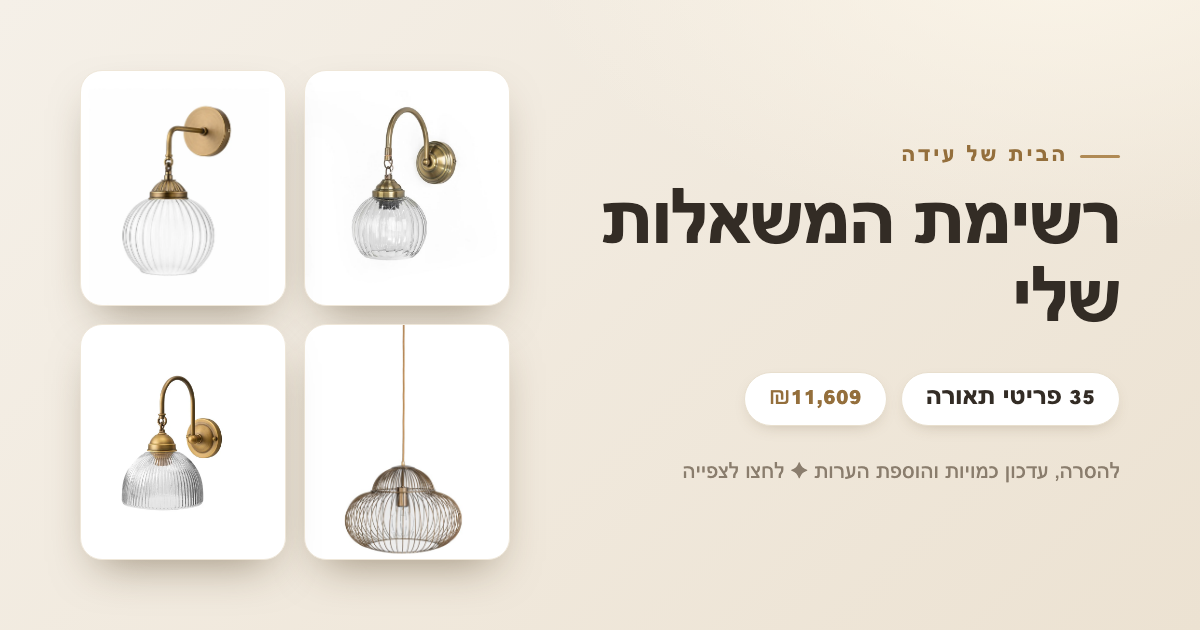
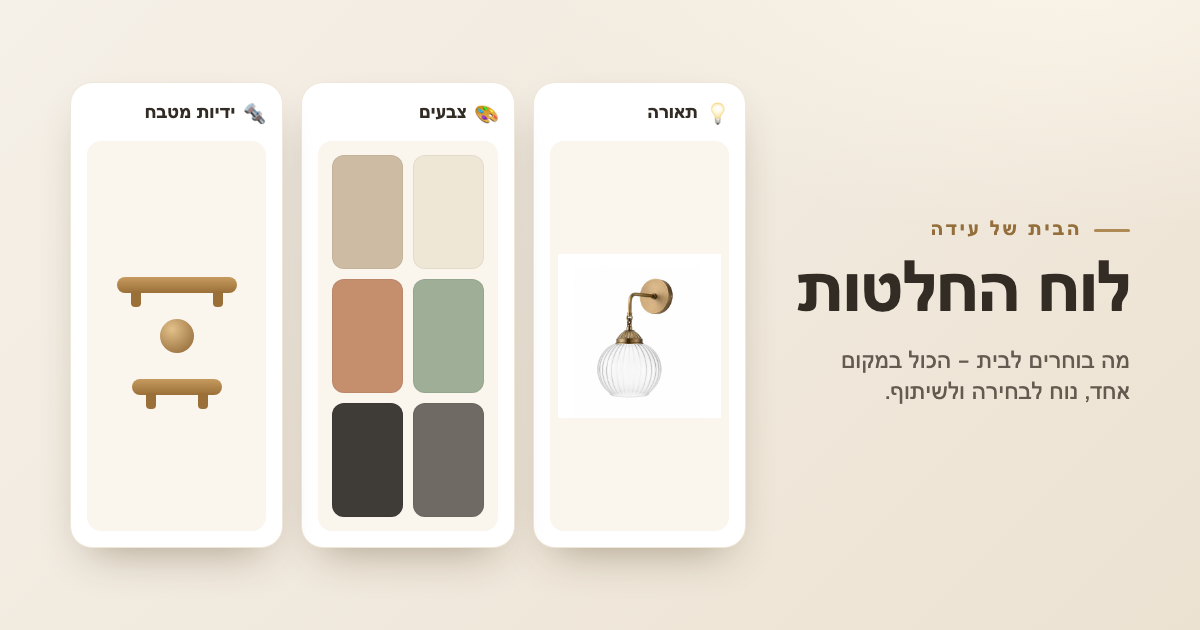
Redesign OG snapshot to show all three sections (lighting/colors/handles)

Changed region(s): [[0.0617, 0.0905, 0.9558, 0.9048], [0.74, 0.2111, 0.925, 0.2714]]

diff --git a/og.html b/og.html
@@ -4,30 +4,40 @@
 html,body{width:1200px;height:630px;overflow:hidden}
 body{font-family:"Heebo","Arial Hebrew","Arial",sans-serif;
   background:radial-gradient(900px 500px at 88% -10%,#fbf5e9,rgba(0,0,0,0) 60%),linear-gradient(135deg,#f5f0e8,#ece2d2);
-  display:flex;align-items:center;gap:50px;padding:70px 80px}
-.txt{flex:1;min-width:0}
-.kick{font-size:22px;font-weight:700;letter-spacing:.14em;color:#946f3c;text-transform:uppercase;
-  display:flex;align-items:center;gap:12px}
-.kick::before{content:"";width:40px;height:3px;border-radius:3px;background:#b08a54}
-h1{font-size:76px;font-weight:800;color:#332c25;line-height:1.02;letter-spacing:-.02em;margin:22px 0 26px}
-.meta{display:inline-flex;gap:14px;align-items:center}
-.chip{background:#fff;border:1.5px solid #e8dfce;border-radius:999px;padding:12px 24px;font-size:26px;font-weight:700;color:#332c25;
-  box-shadow:0 6px 18px -10px rgba(95,72,40,.4)}
-.chip .m{color:#946f3c}
-.foot{margin-top:34px;font-size:22px;color:#8a7d6d;font-weight:500}
-.gal{width:430px;height:490px;display:grid;grid-template-columns:1fr 1fr;grid-template-rows:1fr 1fr;gap:18px;flex-shrink:0}
-.gal div{border-radius:22px;background:#fff center/cover no-repeat;box-shadow:0 20px 45px -18px rgba(70,50,20,.5);border:1px solid #efe7d9}
+  display:flex;align-items:center;gap:44px;padding:56px 70px}
+.txt{width:340px;flex-shrink:0}
+.kick{font-size:20px;font-weight:700;letter-spacing:.14em;color:#946f3c;text-transform:uppercase;display:flex;align-items:center;gap:12px}
+.kick::before{content:"";width:36px;height:3px;border-radius:3px;background:#b08a54}
+h1{font-size:70px;font-weight:800;color:#332c25;line-height:1.0;letter-spacing:-.02em;margin:20px 0 16px}
+.lead{font-size:24px;color:#645a4f;font-weight:500;line-height:1.3}
+.cats{flex:1;display:grid;grid-template-columns:1fr 1fr 1fr;gap:18px;height:466px}
+.tile{background:#fff;border:1px solid #efe7d9;border-radius:22px;box-shadow:0 20px 45px -20px rgba(70,50,20,.45);
+  padding:16px;display:flex;flex-direction:column}
+.tile .h{display:flex;align-items:center;gap:8px;font-size:19px;font-weight:700;color:#332c25;margin-bottom:12px}
+.tile .h .e{font-size:22px}
+.vis{flex:1;border-radius:14px;overflow:hidden;background:#faf6ee;display:flex;align-items:center;justify-content:center;position:relative}
+.vis img{width:100%;height:100%;object-fit:contain;padding:8px}
+/* swatches */
+.sw{display:grid;grid-template-columns:1fr 1fr;gap:10px;width:100%;height:100%;padding:14px}
+.sw span{border-radius:12px;box-shadow:inset 0 0 0 1px rgba(0,0,0,.05)}
+/* handles */
+.handles{display:flex;flex-direction:column;gap:26px;align-items:center;justify-content:center;width:100%}
+.bar{width:120px;height:16px;border-radius:10px;background:linear-gradient(180deg,#c69a5f,#9a7038);position:relative}
+.bar::before,.bar::after{content:"";position:absolute;top:14px;width:10px;height:16px;border-radius:0 0 4px 4px;background:#9a7038}
+.bar::before{left:14px}.bar::after{right:14px}
+.knob{width:34px;height:34px;border-radius:50%;background:radial-gradient(circle at 35% 30%,#e3c08a,#8a6230)}
 </style></head><body>
 <div class="txt">
   <div class="kick">הבית של עידה</div>
-  <h1>רשימת המשאלות שלי</h1>
-  <div class="meta"><span class="chip">35 פריטי תאורה</span><span class="chip"><span class="m">₪11,609</span></span></div>
-  <div class="foot">להסרה, עדכון כמויות והוספת הערות ✦ לחצו לצפייה</div>
+  <h1>לוח החלטות</h1>
+  <div class="lead">מה בוחרים לבית — הכול במקום אחד, נוח לבחירה ולשיתוף.</div>
 </div>
-<div class="gal">
-  <div style="background-image:url('img/product-2419.jpg')"></div>
-  <div style="background-image:url('img/k2.webp')"></div>
-  <div style="background-image:url('img/product-321.jpg')"></div>
-  <div style="background-image:url('img/tomazo-1.webp')"></div>
+<div class="cats">
+  <div class="tile"><div class="h"><span class="e">💡</span>תאורה</div>
+    <div class="vis"><img src="img/k2.webp"></div></div>
+  <div class="tile"><div class="h"><span class="e">🎨</span>צבעים</div>
+    <div class="vis"><div class="sw"><span style="background:#efe7d6"></span><span style="background:#cdbca3"></span><span style="background:#9fae97"></span><span style="background:#c58f6e"></span><span style="background:#6f6a63"></span><span style="background:#3f3b36"></span></div></div></div>
+  <div class="tile"><div class="h"><span class="e">🔩</span>ידיות מטבח</div>
+    <div class="vis"><div class="handles"><div class="bar"></div><div class="knob"></div><div class="bar" style="width:90px"></div></div></div></div>
 </div>
 </body></html>
